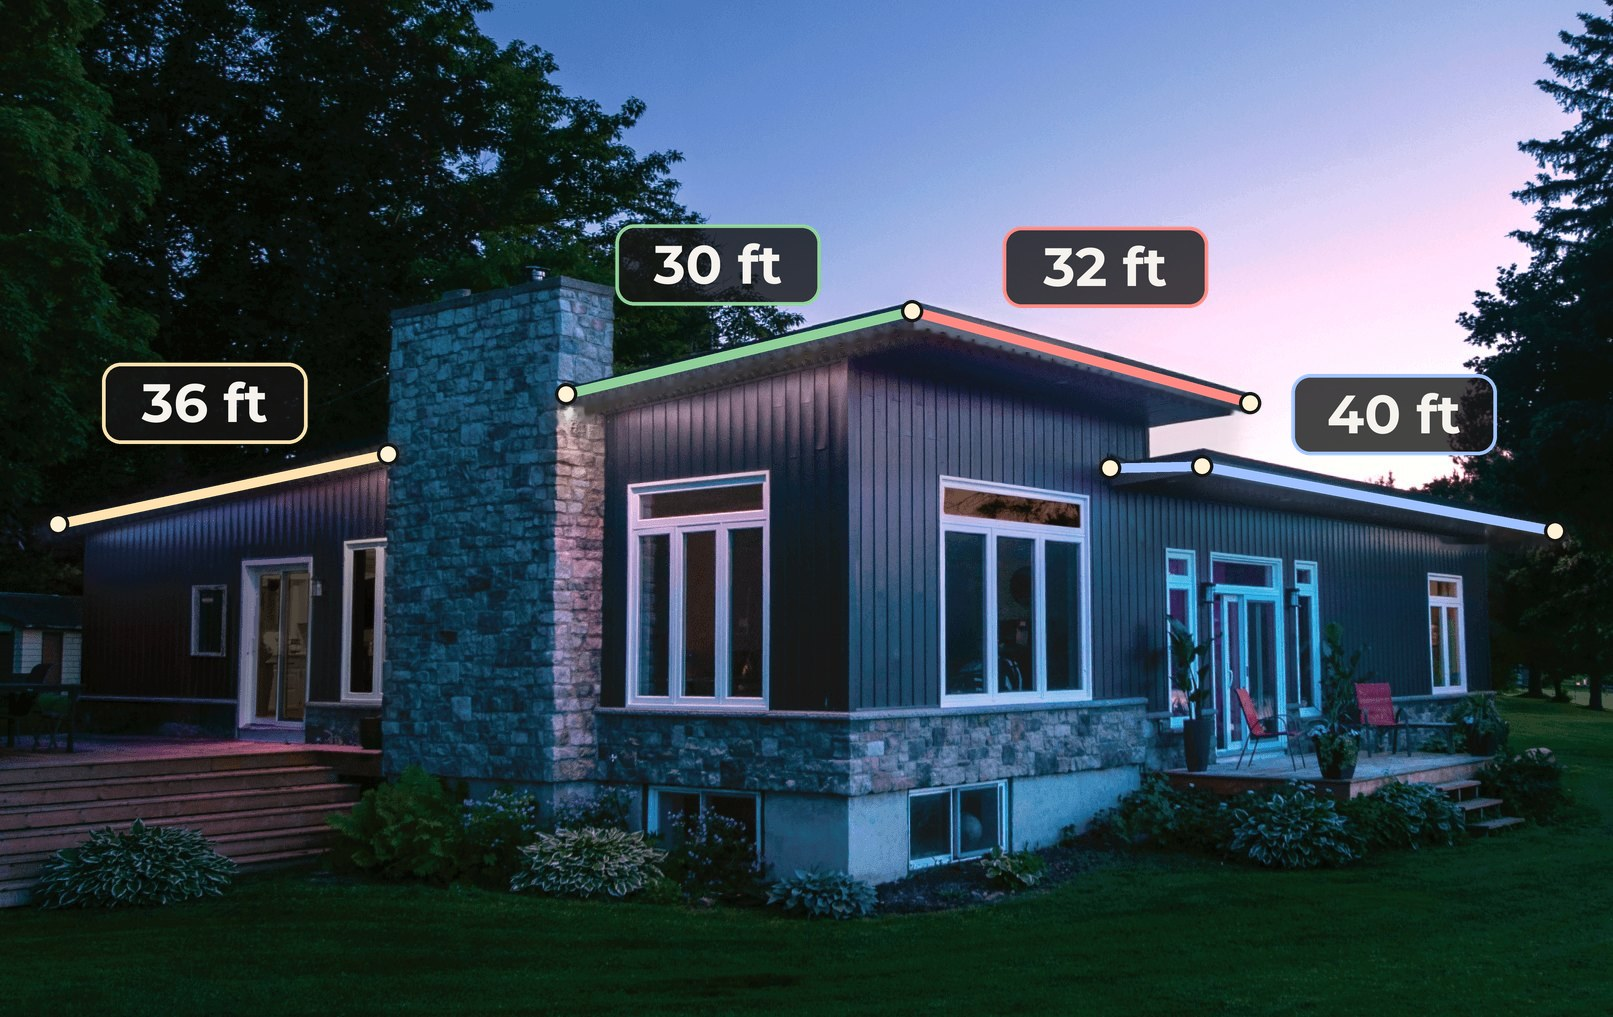
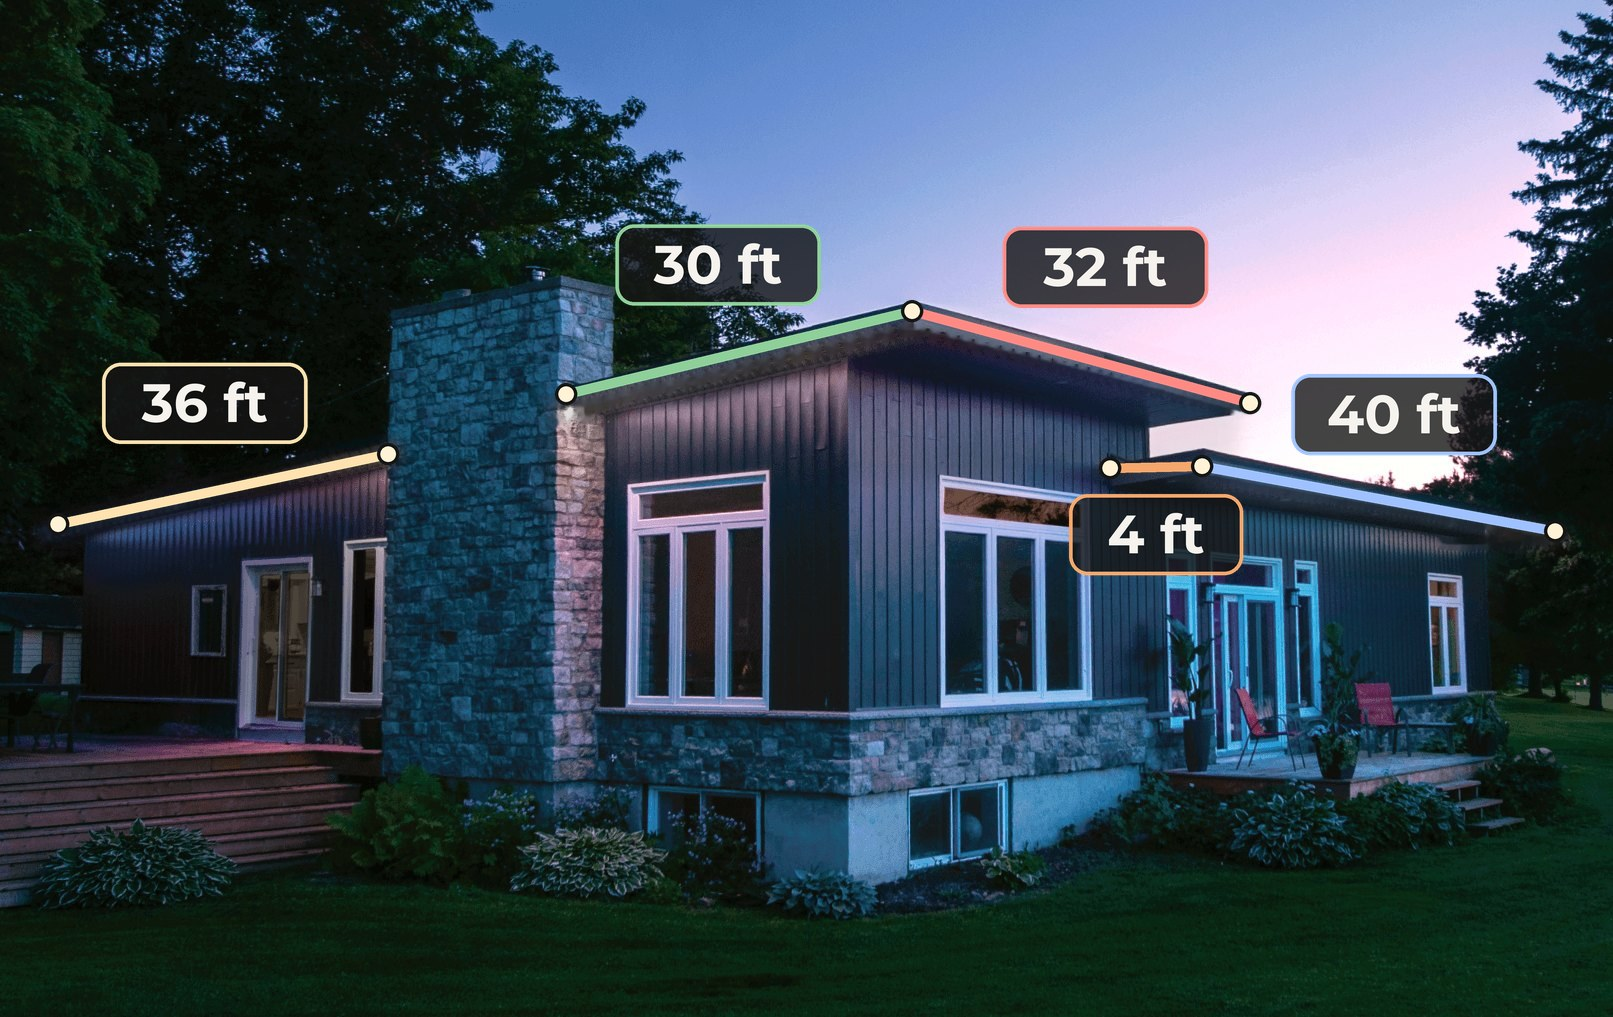
How It Works step two picture: measure the short step-down edge too.
The short roof edge where the lower right wing meets the main roof was drawn as
the first bit of the 40 ft line and had no length of its own. It is now its own
run: its own colour (the app's orange), its own two points and its own tag,
4 ft, set underneath so it clears the 32 ft and 40 ft tags. Nothing else in the
picture moved; the 40 ft line now starts at the wing's corner.

Cache-bust for the picture goes from v=5 to v=6. The sample plan and estimate
further down still list the four main runs (138 ft) and are unchanged.

Changed region(s): [[0.651, 0.4267, 0.775, 0.5792]]

diff --git a/index.html b/index.html
@@ -558,7 +558,7 @@ section{position:relative}
           <h3>We measure your home from a photo.</h3>
           <p>We take a photo of your house from the front and mark out the measurements right on it: every eave, gable and roof edge. Your plan and price are built from there.</p>
         </div>
-        <div class="fmedia"><figure class="fig doc"><img src="img/process-photo-measure.jpg?v=5" alt="Photo of an example home with each roof edge traced and labeled with its length in feet" loading="lazy" decoding="async"><figcaption>Example home, measured from a photo</figcaption></figure></div>
+        <div class="fmedia"><figure class="fig doc"><img src="img/process-photo-measure.jpg?v=6" alt="Photo of an example home with each roof edge traced and labeled with its length in feet" loading="lazy" decoding="async"><figcaption>Example home, measured from a photo</figcaption></figure></div>
       </div>
 
       <div class="fstep">
